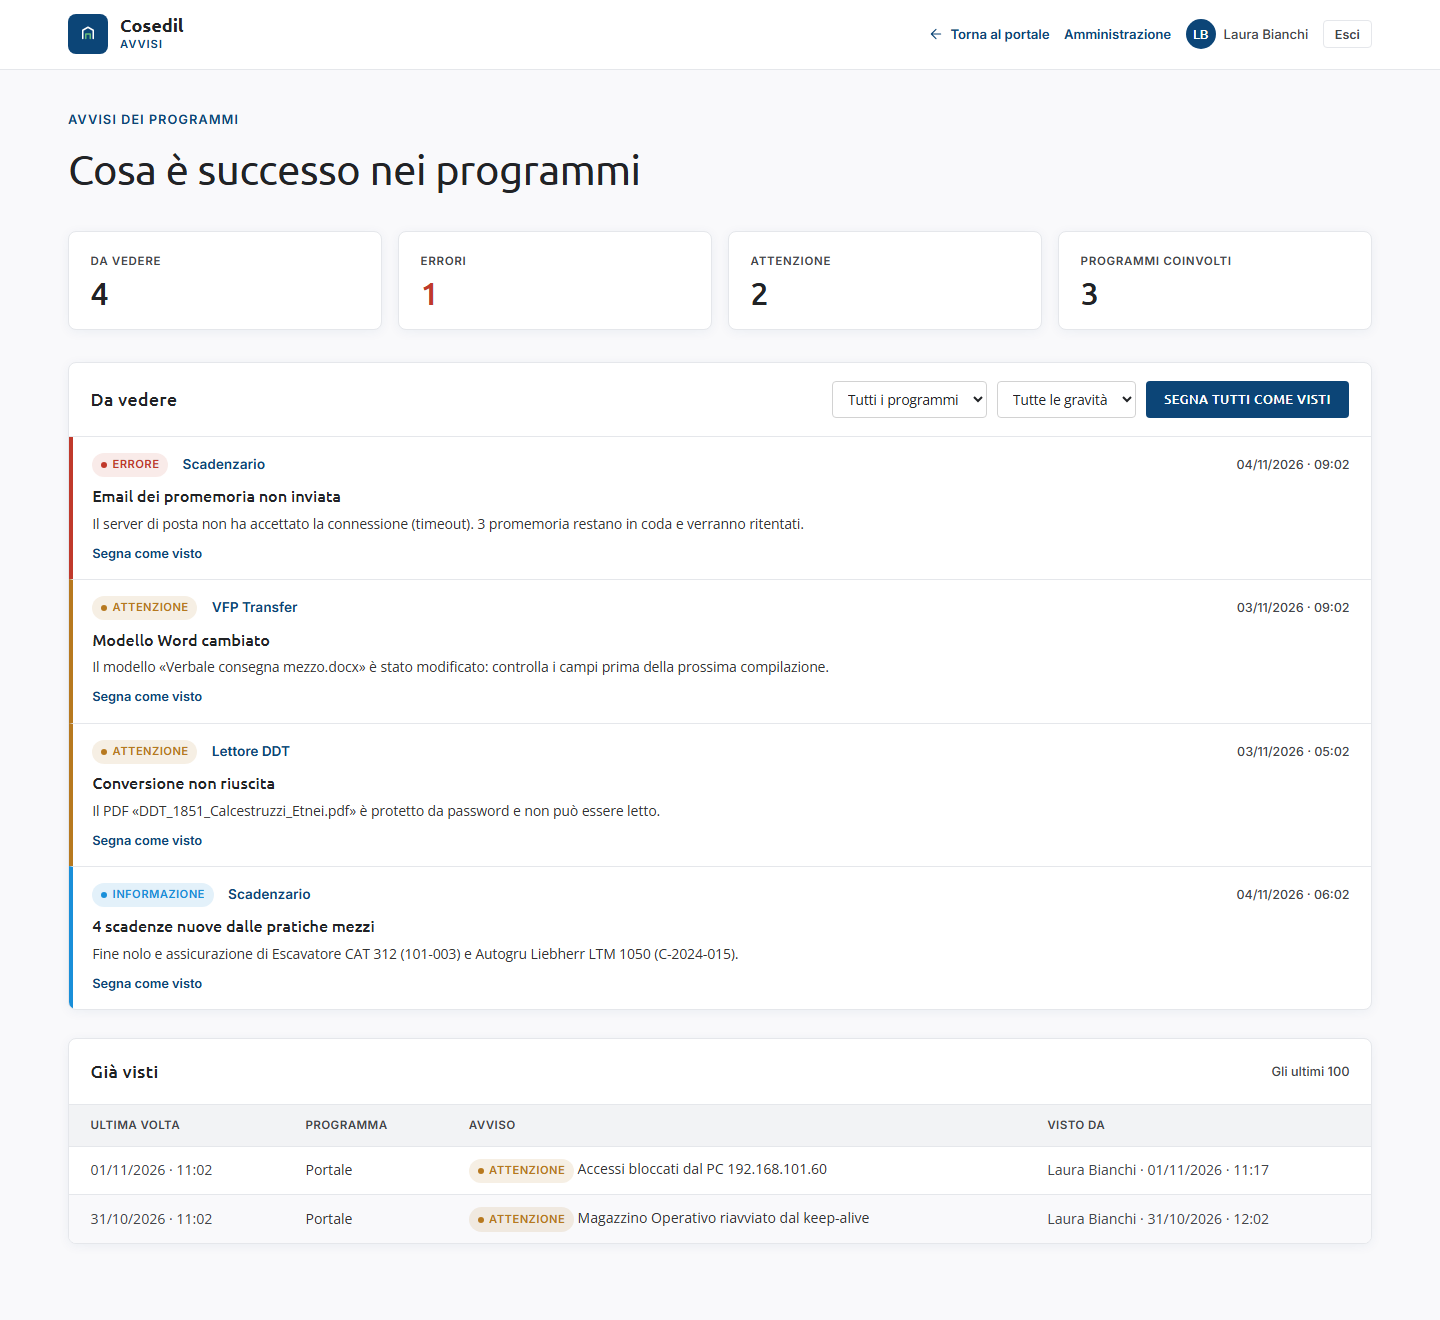
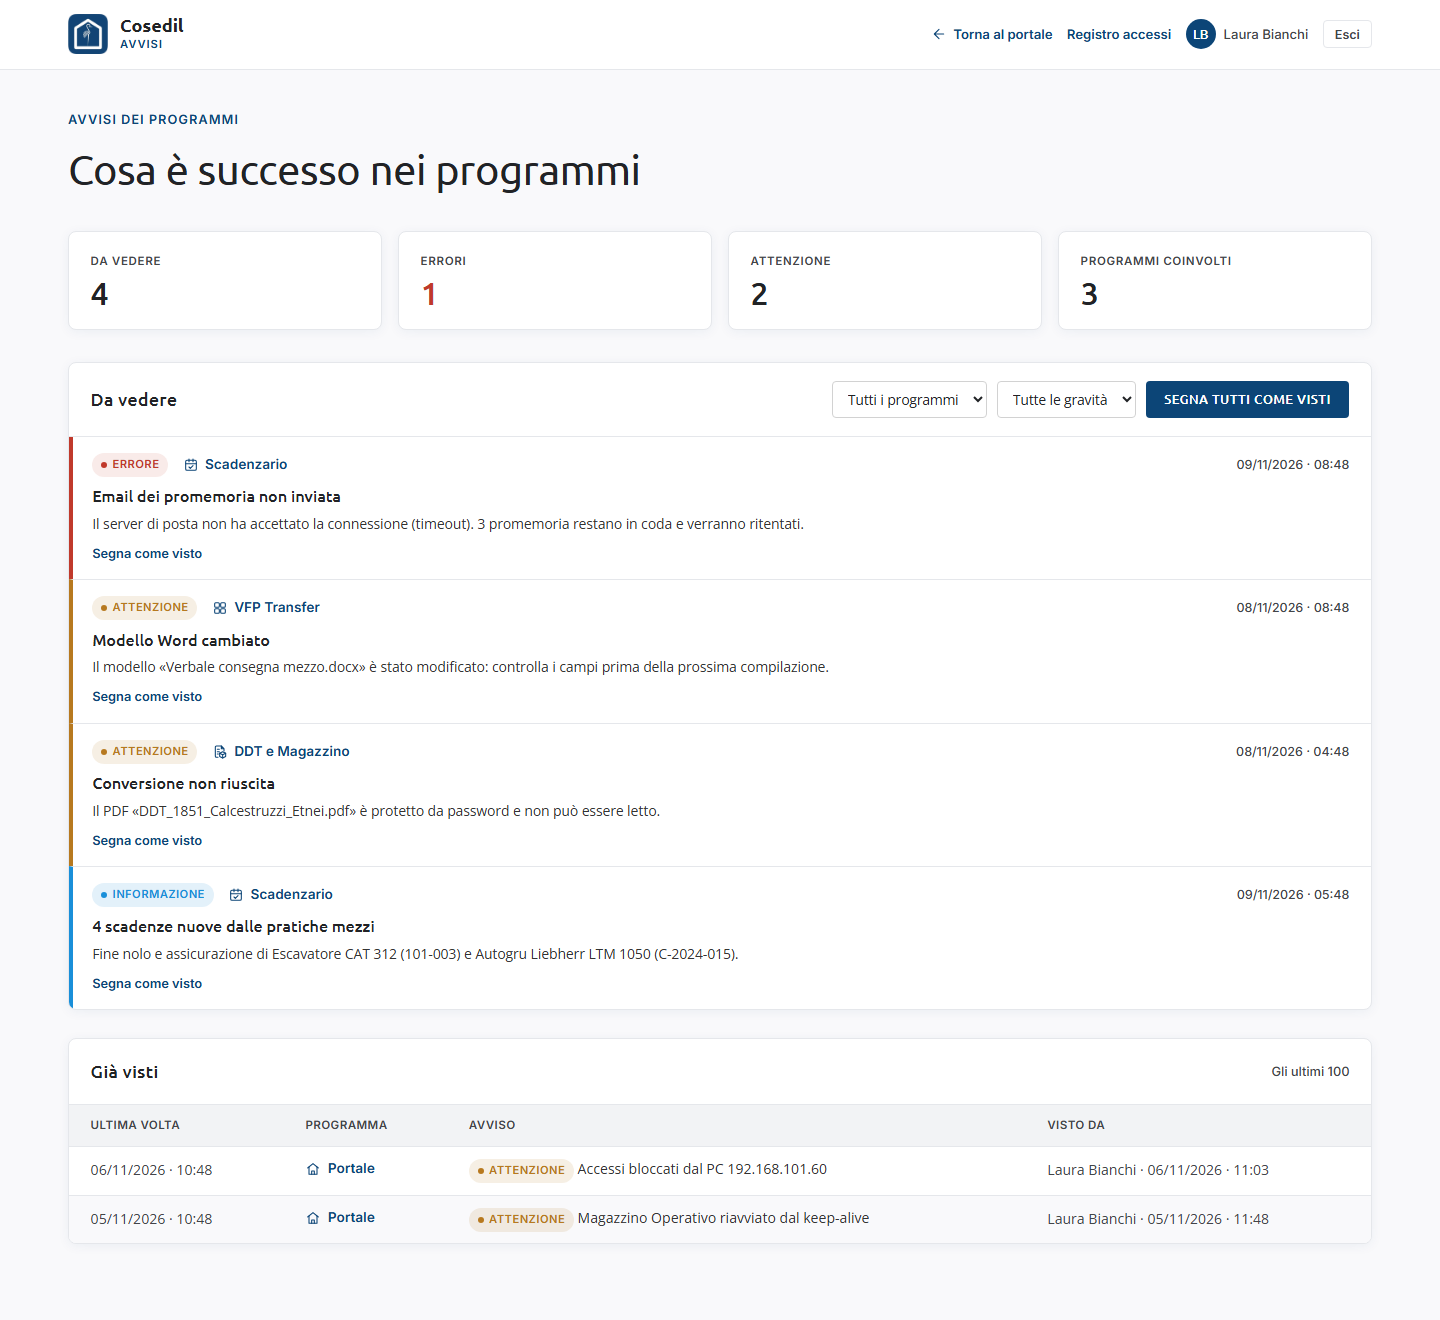
docs(portale): immagini della guida con le icone nuove e il marchio ufficiale
31 immagini della guida mostravano la casetta in testata, l'airone da solo al login e le sigle dei
programmi in plancia: rifatte da un portale di prova con i dati dimostrativi della guida (utenti inventati)
con il codice attuale, ognuna confrontata con la precedente. §3.5: nella lista utenti l'icona dell'ultimo
programma aperto e, nelle attività, l'icona del programma (casetta = Portale). Restano invariate le
immagini senza icone né marchio (03, 04, 14, 20, 23, 23b, 24, 33-36, 41).

diff --git a/portale/docs/guida/03-plancia.md b/portale/docs/guida/03-plancia.md
@@ -94,13 +94,15 @@ Se lo username indicato non esiste, compare l'etichetta *non esiste* e manca il 
 ## 3.5 Gli utenti e le loro attività
 
 In basso a sinistra c'è l'elenco **Utenti**: per ognuno ruolo, ultimo accesso, quanti
-accessi negli ultimi 30 giorni e la sigla del programma che usa di più. Chi è disattivato
-ha l'etichetta rossa *Disattivato*; chi non è mai entrato ha *Mai entrato*.
+accessi negli ultimi 30 giorni e l'icona dell'ultimo programma aperto (il nome compare
+passandoci sopra con il mouse). Chi è disattivato ha l'etichetta rossa *Disattivato*; chi
+non è mai entrato ha *Mai entrato*.
 
 **Clic su un utente**: a destra compare **Attività di …**, giorno per giorno: accessi al
 Portale, programmi aperti o avviati, quanto tempo li ha usati (*usata 09:21–10:06 · 45
 min*) e le azioni principali fatte dentro i programmi (per esempio *InCampo · Non
-conformità*).
+conformità*). Ogni riga ha l'icona del programma, la stessa delle schede della pagina
+iniziale; la casetta indica le azioni fatte nel Portale (accessi, utenti, abilitazioni).
 
 ![Le attività di un utente](img/25-attivita-utente.png)
 
